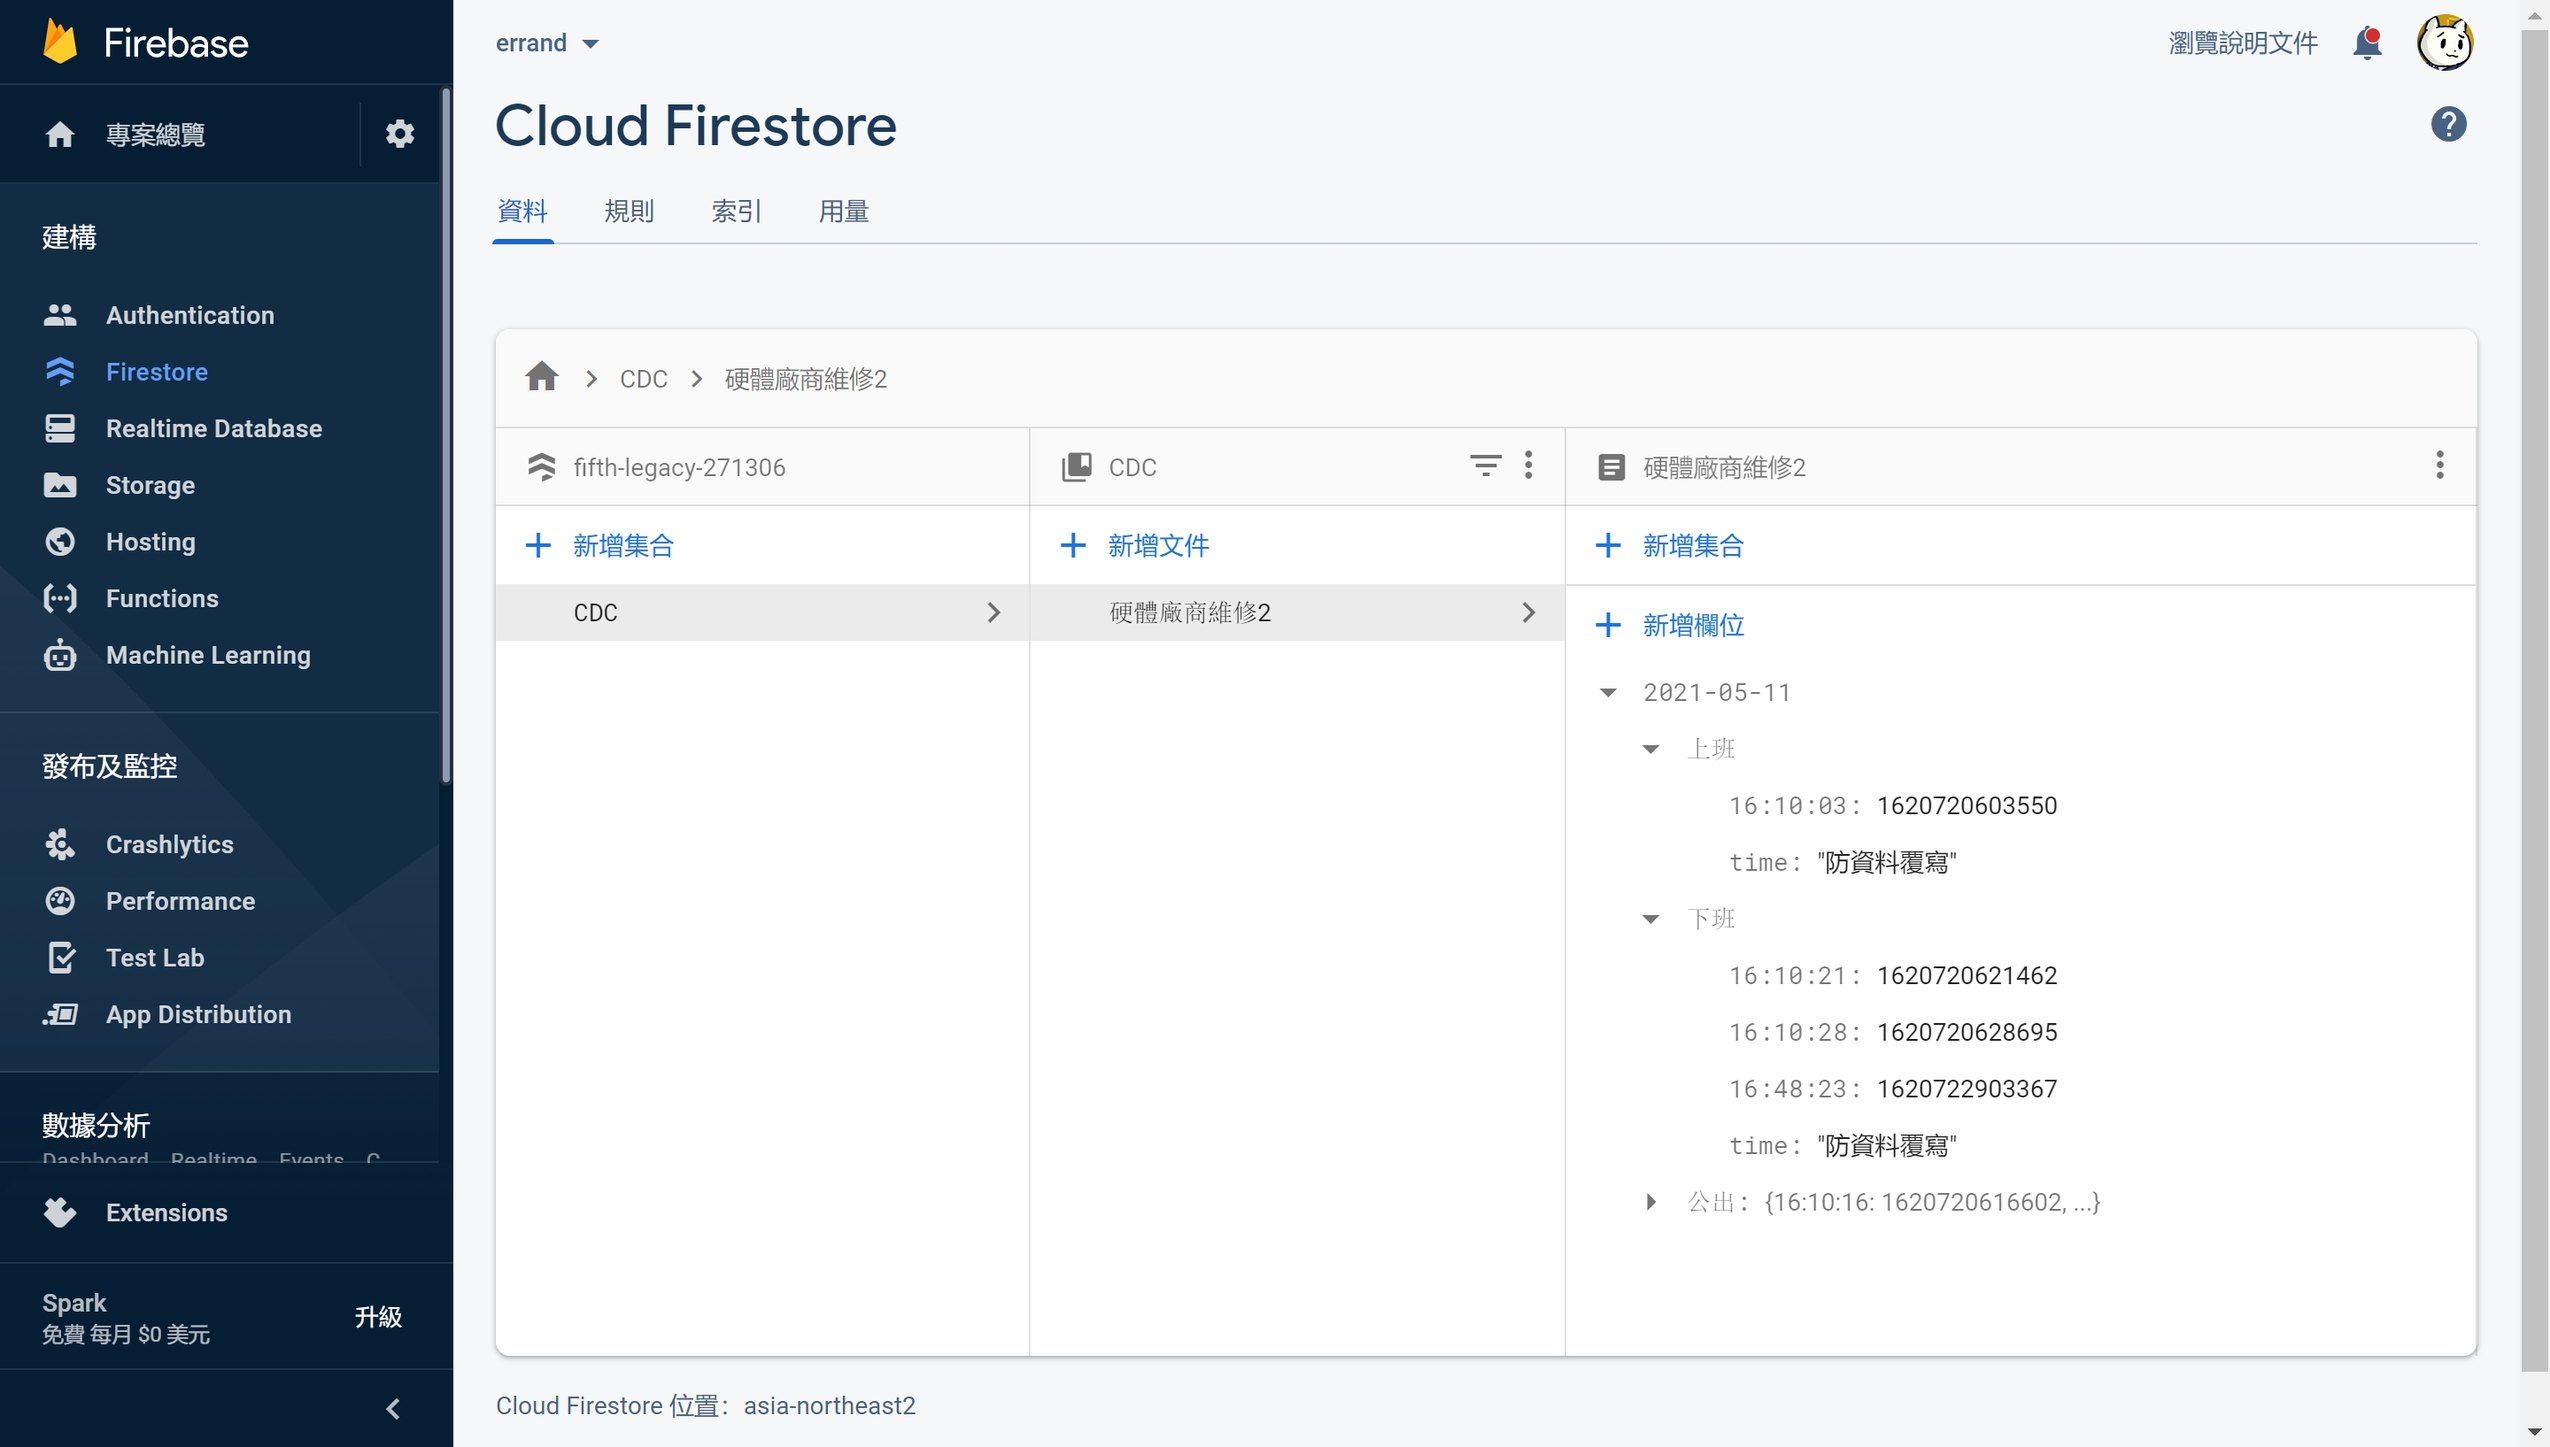
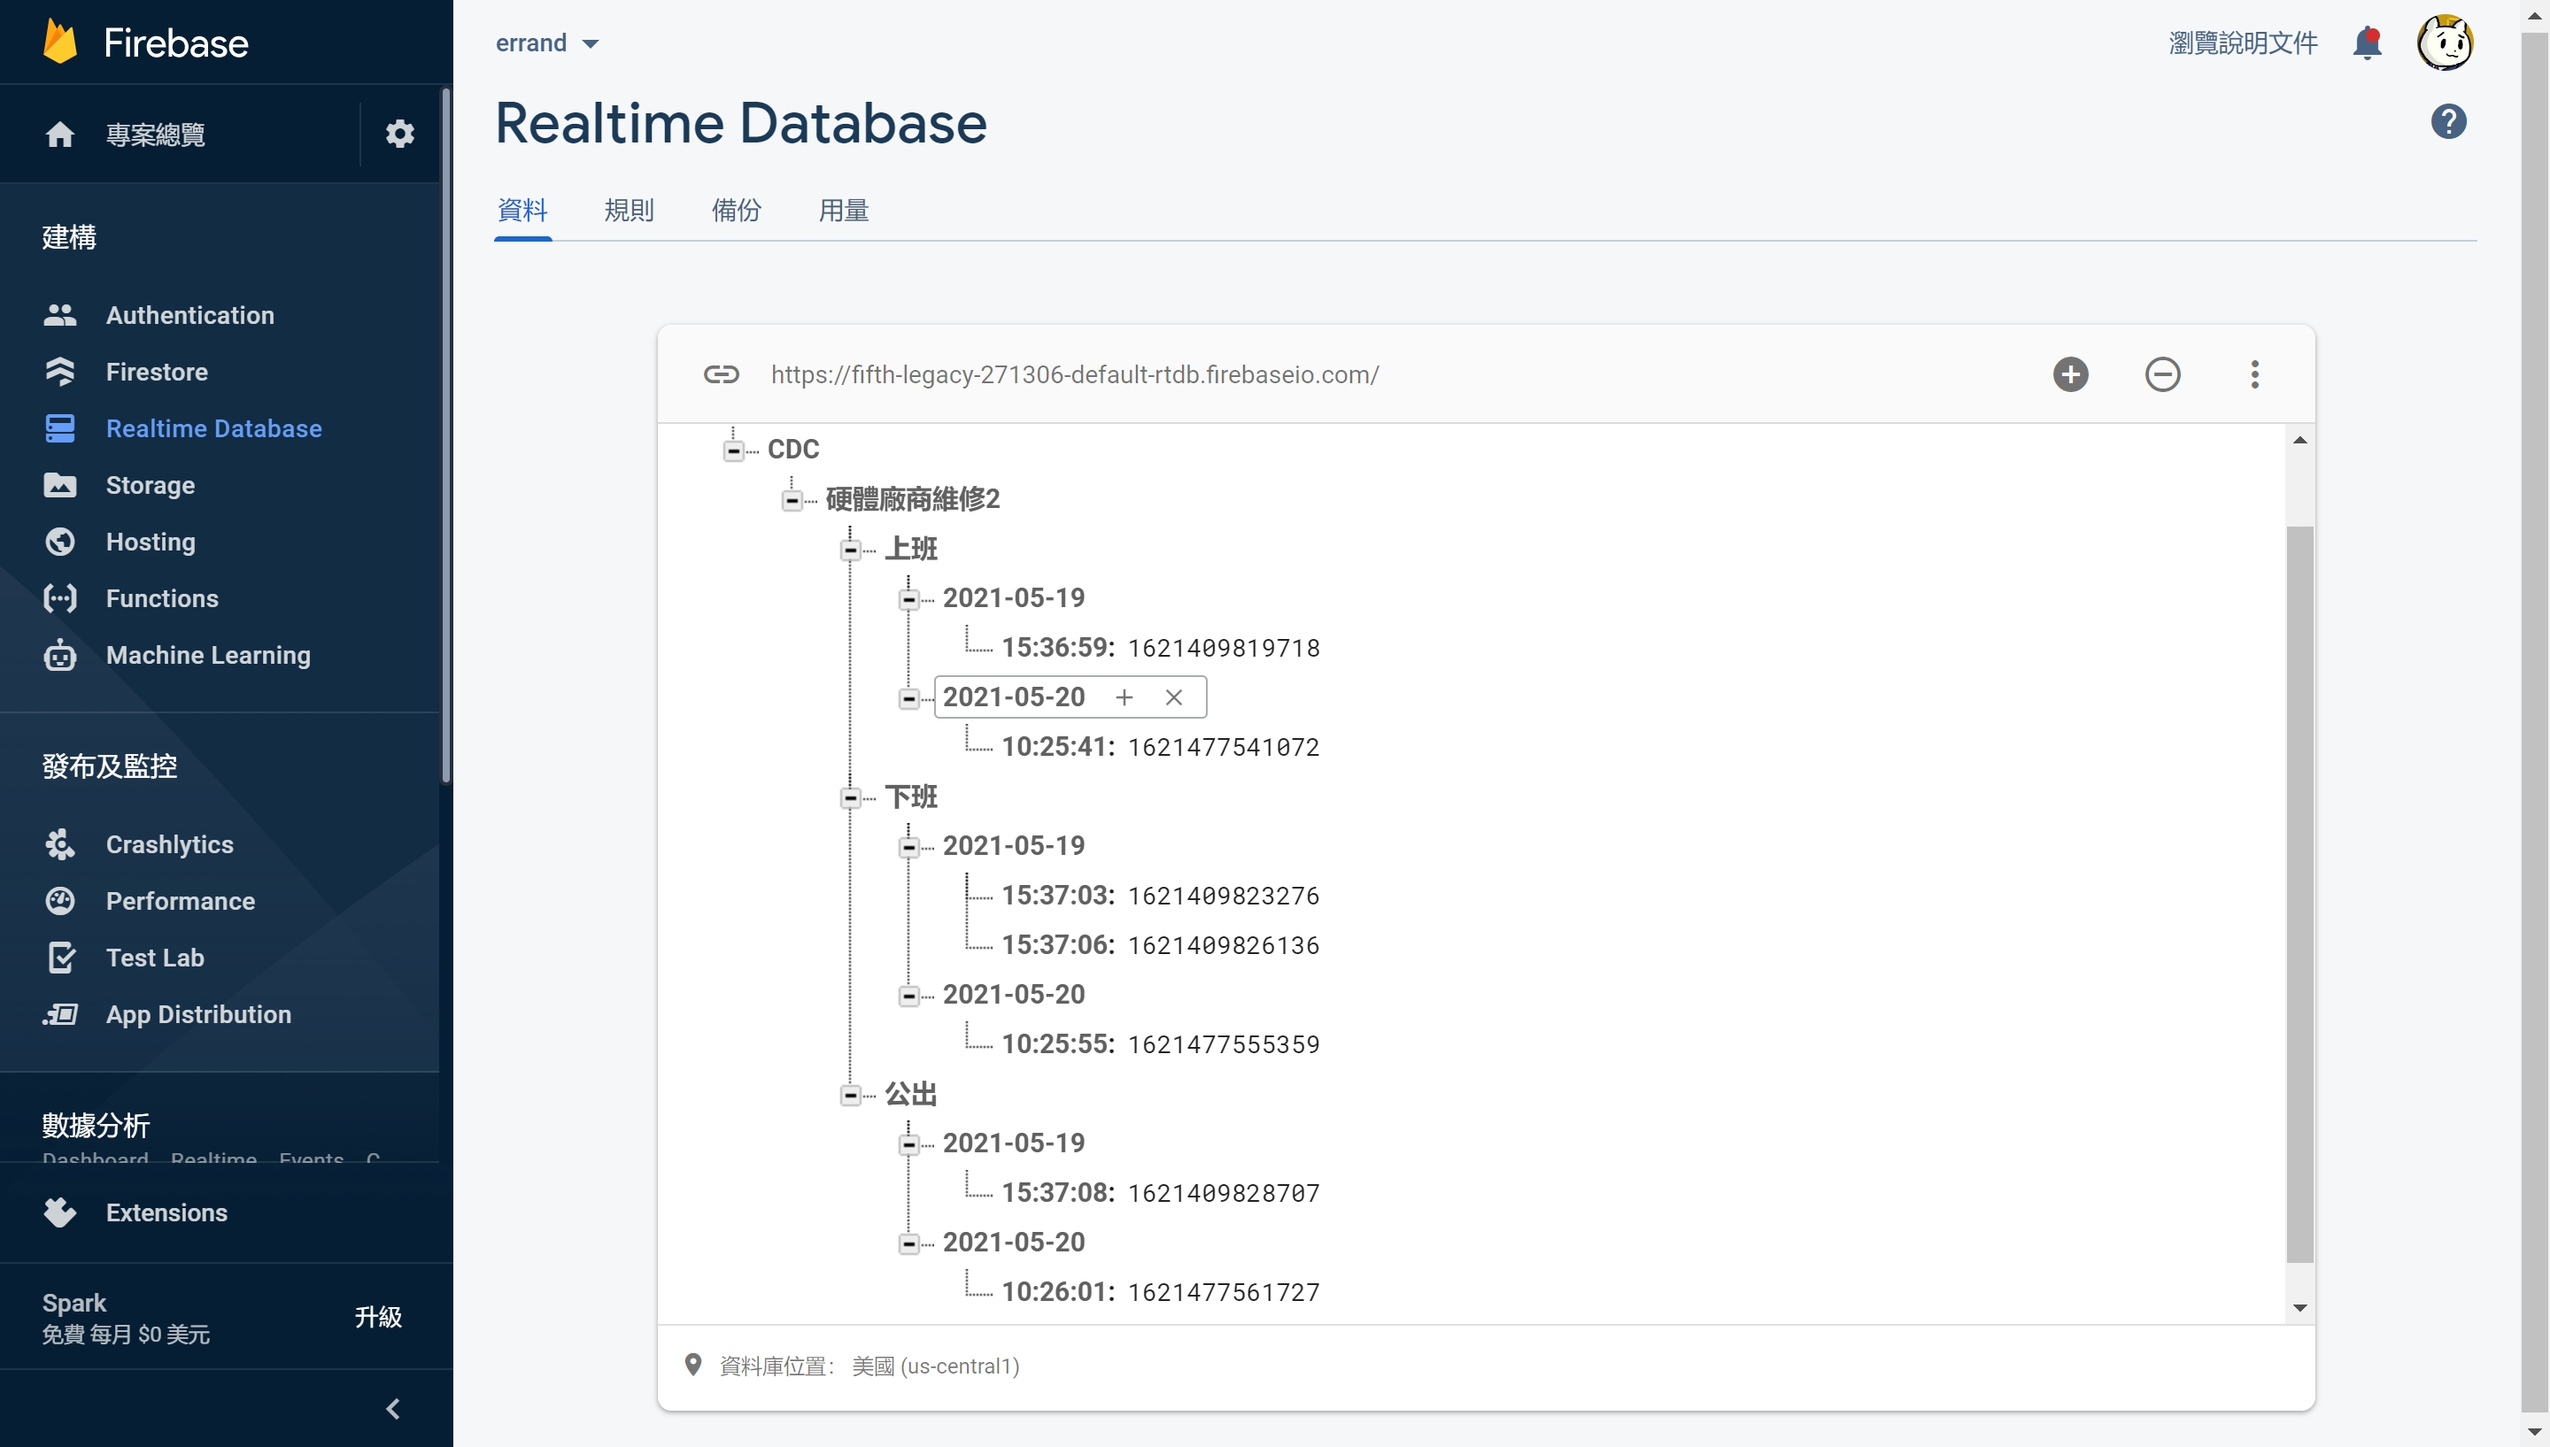
edit README.md

diff --git a/README.md b/README.md
@@ -1,5 +1,5 @@
-# cdc-errand ver. 0.1.1
-# 疾管點點名 ver. 0.1.1
+# cdc-errand ver. 0.1.2
+# 疾管點點名 ver. 0.1.2
 
 DEMO網頁: https://zhaohoulin.github.io/cdc-errand/?openExternalBrowser=1
 
@@ -10,9 +10,9 @@ DEMO網頁: https://zhaohoulin.github.io/cdc-errand/?openExternalBrowser=1
 
 ## 功能 & 特色
 * 以google帳號登入
-* 抓取在公司附近的定位才能打卡
-* google sheet 紀錄打卡時間
+* 抓取在公司附近的定位才能打卡(目前停用)
+
 
 ## 修改內容
-* 資料搬到firestore
-* 打卡邏輯優化
+* 資料搬到 Realtime Database
+* 日期資料結構更改
